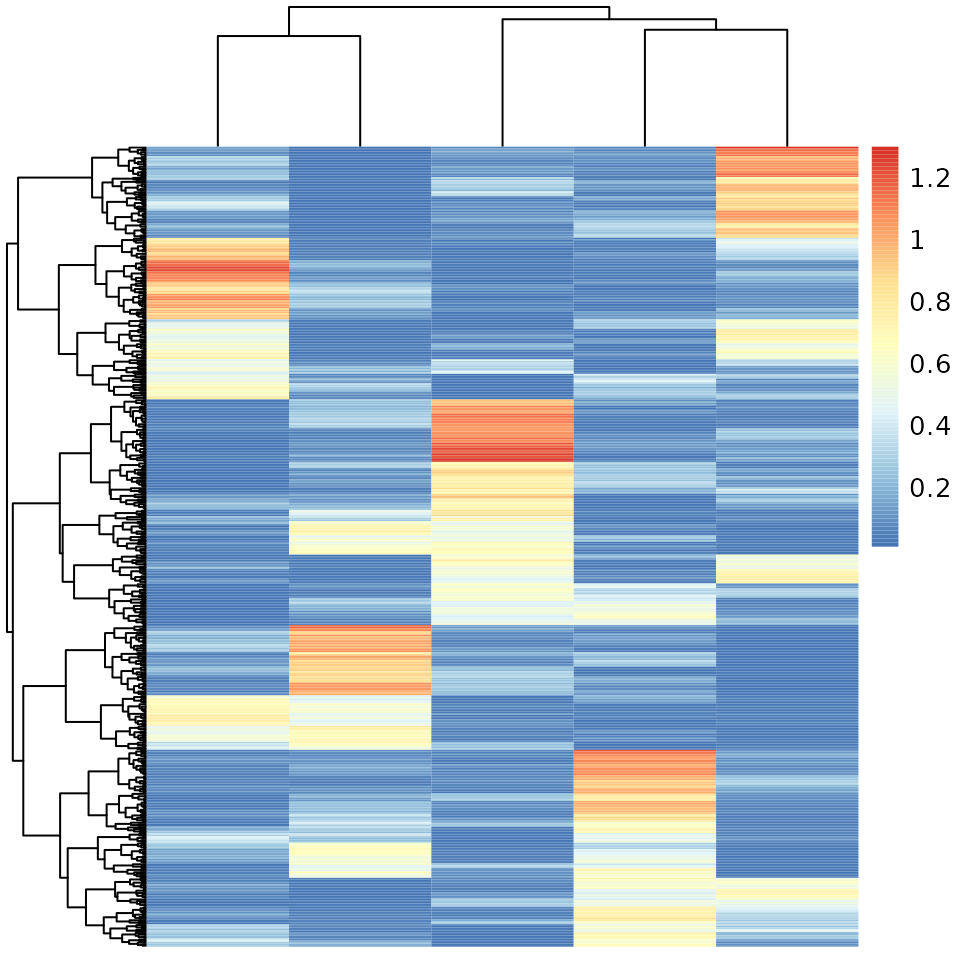
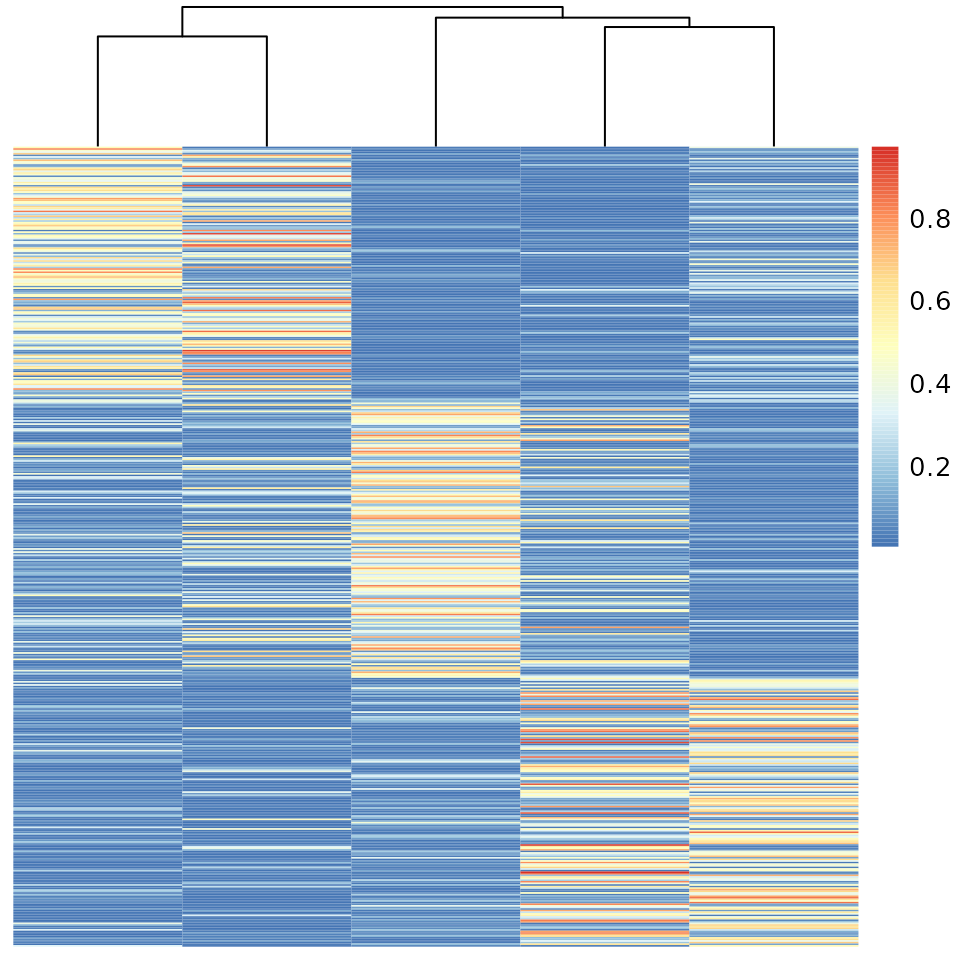
update visualization

diff --git a/docs/articles/note_multi_nmf.html b/docs/articles/note_multi_nmf.html
@@ -132,16 +132,16 @@
 <code class="sourceCode R"><span><span class="va">u0</span> <span class="op">&lt;-</span> <span class="fu"><a href="https://rdrr.io/r/base/cbind.html" class="external-link">cbind</a></span><span class="op">(</span><span class="fu"><a href="https://rdrr.io/r/base/Extremes.html" class="external-link">pmax</a></span><span class="op">(</span><span class="va">uu</span>, <span class="fl">0</span><span class="op">)</span>, <span class="op">-</span><span class="fu"><a href="https://rdrr.io/r/base/Extremes.html" class="external-link">pmin</a></span><span class="op">(</span><span class="va">uu</span>, <span class="fl">0</span><span class="op">)</span><span class="op">)</span></span>
 <span><span class="va">.out0</span> <span class="op">&lt;-</span> <span class="fu"><a href="../reference/asap_fit_nmf.html">asap_fit_nmf</a></span><span class="op">(</span><span class="fu"><a href="https://rdrr.io/r/base/cbind.html" class="external-link">cbind</a></span><span class="op">(</span><span class="va">y1</span>, <span class="va">y2</span>, <span class="va">y3</span>, <span class="va">u0</span><span class="op">)</span> <span class="op">*</span> <span class="fl">10</span>, maxK<span class="op">=</span><span class="fl">7</span><span class="op">)</span></span></code></pre></div>
 <div class="sourceCode" id="cb3"><pre class="downlit sourceCode r">
-<code class="sourceCode R"><span><span class="fu"><a href="https://rdrr.io/pkg/pheatmap/man/pheatmap.html" class="external-link">pheatmap</a></span><span class="op">(</span><span class="va">.out0</span><span class="op">$</span><span class="va">log.beta</span><span class="op">[</span><span class="va">gg</span>, <span class="op">]</span>, Rowv<span class="op">=</span><span class="cn">NA</span>, Colv<span class="op">=</span><span class="cn">NA</span>, scale <span class="op">=</span> <span class="st">"row"</span>, main <span class="op">=</span> <span class="st">"beta"</span><span class="op">)</span></span></code></pre></div>
+<code class="sourceCode R"><span><span class="fu"><a href="https://rdrr.io/pkg/pheatmap/man/pheatmap.html" class="external-link">pheatmap</a></span><span class="op">(</span><span class="va">.out0</span><span class="op">$</span><span class="va">log.beta</span><span class="op">[</span><span class="va">gg</span>, <span class="op">]</span>, Rowv<span class="op">=</span><span class="cn">NA</span>, Colv<span class="op">=</span><span class="cn">NA</span>, scale <span class="op">=</span> <span class="st">"row"</span>, main <span class="op">=</span> <span class="st">"beta"</span>, cluster_rows <span class="op">=</span> <span class="cn">F</span>, cluster_cols <span class="op">=</span> <span class="cn">F</span><span class="op">)</span></span></code></pre></div>
 <p><img src="note_multi_nmf_files/figure-html/unnamed-chunk-3-1.png" width="480"></p>
 <div class="sourceCode" id="cb4"><pre class="downlit sourceCode r">
-<code class="sourceCode R"><span><span class="fu"><a href="https://rdrr.io/pkg/pheatmap/man/pheatmap.html" class="external-link">pheatmap</a></span><span class="op">(</span><span class="va">.out0</span><span class="op">$</span><span class="va">theta</span><span class="op">[</span><span class="va">kk</span>, <span class="op">]</span>, Rowv<span class="op">=</span><span class="cn">NA</span>, Colv<span class="op">=</span><span class="cn">NA</span>, scale <span class="op">=</span> <span class="st">"row"</span>, main <span class="op">=</span> <span class="st">"theta1"</span><span class="op">)</span></span></code></pre></div>
+<code class="sourceCode R"><span><span class="fu"><a href="https://rdrr.io/pkg/pheatmap/man/pheatmap.html" class="external-link">pheatmap</a></span><span class="op">(</span><span class="va">.out0</span><span class="op">$</span><span class="va">theta</span><span class="op">[</span><span class="va">kk</span>, <span class="op">]</span>, Rowv<span class="op">=</span><span class="cn">NA</span>, Colv<span class="op">=</span><span class="cn">NA</span>, scale <span class="op">=</span> <span class="st">"row"</span>, main <span class="op">=</span> <span class="st">"theta1"</span>, cluster_rows <span class="op">=</span> <span class="cn">F</span>, cluster_cols <span class="op">=</span> <span class="cn">F</span><span class="op">)</span></span></code></pre></div>
 <p><img src="note_multi_nmf_files/figure-html/unnamed-chunk-4-1.png" width="480"></p>
 <div class="sourceCode" id="cb5"><pre class="downlit sourceCode r">
-<code class="sourceCode R"><span><span class="fu"><a href="https://rdrr.io/pkg/pheatmap/man/pheatmap.html" class="external-link">pheatmap</a></span><span class="op">(</span><span class="va">.out0</span><span class="op">$</span><span class="va">theta</span><span class="op">[</span><span class="va">kk</span> <span class="op">+</span> <span class="va">n</span>, <span class="op">]</span>, Rowv<span class="op">=</span><span class="cn">NA</span>, Colv<span class="op">=</span><span class="cn">NA</span>, scale <span class="op">=</span> <span class="st">"row"</span>, main <span class="op">=</span> <span class="st">"theta2"</span><span class="op">)</span></span></code></pre></div>
+<code class="sourceCode R"><span><span class="fu"><a href="https://rdrr.io/pkg/pheatmap/man/pheatmap.html" class="external-link">pheatmap</a></span><span class="op">(</span><span class="va">.out0</span><span class="op">$</span><span class="va">theta</span><span class="op">[</span><span class="va">kk</span> <span class="op">+</span> <span class="va">n</span>, <span class="op">]</span>, Rowv<span class="op">=</span><span class="cn">NA</span>, Colv<span class="op">=</span><span class="cn">NA</span>, scale <span class="op">=</span> <span class="st">"row"</span>, main <span class="op">=</span> <span class="st">"theta2"</span>, cluster_rows <span class="op">=</span> <span class="cn">F</span>, cluster_cols <span class="op">=</span> <span class="cn">F</span><span class="op">)</span></span></code></pre></div>
 <p><img src="note_multi_nmf_files/figure-html/unnamed-chunk-5-1.png" width="480"></p>
 <div class="sourceCode" id="cb6"><pre class="downlit sourceCode r">
-<code class="sourceCode R"><span><span class="fu"><a href="https://rdrr.io/pkg/pheatmap/man/pheatmap.html" class="external-link">pheatmap</a></span><span class="op">(</span><span class="va">.out0</span><span class="op">$</span><span class="va">theta</span><span class="op">[</span><span class="va">kk</span> <span class="op">+</span> <span class="fl">2</span><span class="op">*</span><span class="va">n</span>, <span class="op">]</span>, Rowv<span class="op">=</span><span class="cn">NA</span>, Colv<span class="op">=</span><span class="cn">NA</span>, scale <span class="op">=</span> <span class="st">"row"</span>, main <span class="op">=</span> <span class="st">"theta3"</span><span class="op">)</span></span></code></pre></div>
+<code class="sourceCode R"><span><span class="fu"><a href="https://rdrr.io/pkg/pheatmap/man/pheatmap.html" class="external-link">pheatmap</a></span><span class="op">(</span><span class="va">.out0</span><span class="op">$</span><span class="va">theta</span><span class="op">[</span><span class="va">kk</span> <span class="op">+</span> <span class="fl">2</span><span class="op">*</span><span class="va">n</span>, <span class="op">]</span>, Rowv<span class="op">=</span><span class="cn">NA</span>, Colv<span class="op">=</span><span class="cn">NA</span>, scale <span class="op">=</span> <span class="st">"row"</span>, main <span class="op">=</span> <span class="st">"theta3"</span>, cluster_rows <span class="op">=</span> <span class="cn">F</span>, cluster_cols <span class="op">=</span> <span class="cn">F</span><span class="op">)</span></span></code></pre></div>
 <p><img src="note_multi_nmf_files/figure-html/unnamed-chunk-6-1.png" width="480"></p>
 </div>
 <div class="section level3">
@@ -151,16 +151,16 @@
 <code class="sourceCode R"><span><span class="va">u0</span> <span class="op">&lt;-</span> <span class="fu"><a href="https://rdrr.io/r/base/cbind.html" class="external-link">cbind</a></span><span class="op">(</span><span class="fu"><a href="https://rdrr.io/r/base/Extremes.html" class="external-link">pmax</a></span><span class="op">(</span><span class="va">uu</span>, <span class="fl">0</span><span class="op">)</span>, <span class="op">-</span><span class="fu"><a href="https://rdrr.io/r/base/Extremes.html" class="external-link">pmin</a></span><span class="op">(</span><span class="va">uu</span>, <span class="fl">0</span><span class="op">)</span><span class="op">)</span></span>
 <span><span class="va">.out</span> <span class="op">&lt;-</span>  <span class="fu"><a href="../reference/asap_fit_nmf_cbind.html">asap_fit_nmf_cbind</a></span><span class="op">(</span><span class="fu"><a href="https://rdrr.io/r/base/list.html" class="external-link">list</a></span><span class="op">(</span><span class="va">y1</span>, <span class="va">y2</span>, <span class="va">y3</span>, <span class="va">u0</span><span class="op">)</span>, a0 <span class="op">=</span> <span class="fl">1e-2</span>, b0 <span class="op">=</span> <span class="fl">1</span>, maxK<span class="op">=</span><span class="fl">7</span><span class="op">)</span></span></code></pre></div>
 <div class="sourceCode" id="cb8"><pre class="downlit sourceCode r">
-<code class="sourceCode R"><span><span class="fu"><a href="https://rdrr.io/pkg/pheatmap/man/pheatmap.html" class="external-link">pheatmap</a></span><span class="op">(</span><span class="va">.out</span><span class="op">$</span><span class="va">beta</span><span class="op">[</span><span class="va">gg</span>,<span class="op">]</span>, Rowv<span class="op">=</span><span class="cn">NA</span>, Colv<span class="op">=</span><span class="cn">NA</span>, scale <span class="op">=</span> <span class="st">"row"</span>, main <span class="op">=</span> <span class="st">"beta"</span><span class="op">)</span></span></code></pre></div>
+<code class="sourceCode R"><span><span class="fu"><a href="https://rdrr.io/pkg/pheatmap/man/pheatmap.html" class="external-link">pheatmap</a></span><span class="op">(</span><span class="va">.out</span><span class="op">$</span><span class="va">beta</span><span class="op">[</span><span class="va">gg</span>,<span class="op">]</span>, Rowv<span class="op">=</span><span class="cn">NA</span>, Colv<span class="op">=</span><span class="cn">NA</span>, scale <span class="op">=</span> <span class="st">"row"</span>, main <span class="op">=</span> <span class="st">"beta"</span>, cluster_rows <span class="op">=</span> <span class="cn">F</span>, cluster_cols <span class="op">=</span> <span class="cn">F</span><span class="op">)</span></span></code></pre></div>
 <p><img src="note_multi_nmf_files/figure-html/unnamed-chunk-8-1.png" width="480"></p>
 <div class="sourceCode" id="cb9"><pre class="downlit sourceCode r">
-<code class="sourceCode R"><span><span class="fu"><a href="https://rdrr.io/pkg/pheatmap/man/pheatmap.html" class="external-link">pheatmap</a></span><span class="op">(</span><span class="va">.out</span><span class="op">$</span><span class="va">theta.list</span><span class="op">[[</span><span class="fl">1</span><span class="op">]</span><span class="op">]</span><span class="op">[</span><span class="va">kk</span>,<span class="op">]</span>, Rowv<span class="op">=</span><span class="cn">NA</span>, Colv<span class="op">=</span><span class="cn">NA</span>, scale <span class="op">=</span> <span class="st">"row"</span>, main <span class="op">=</span> <span class="st">"theta1 (1 + 2)"</span><span class="op">)</span></span></code></pre></div>
+<code class="sourceCode R"><span><span class="fu"><a href="https://rdrr.io/pkg/pheatmap/man/pheatmap.html" class="external-link">pheatmap</a></span><span class="op">(</span><span class="va">.out</span><span class="op">$</span><span class="va">theta.list</span><span class="op">[[</span><span class="fl">1</span><span class="op">]</span><span class="op">]</span><span class="op">[</span><span class="va">kk</span>,<span class="op">]</span>, Rowv<span class="op">=</span><span class="cn">NA</span>, Colv<span class="op">=</span><span class="cn">NA</span>, scale <span class="op">=</span> <span class="st">"row"</span>, main <span class="op">=</span> <span class="st">"theta1 (1 + 2)"</span>, cluster_rows <span class="op">=</span> <span class="cn">F</span>, cluster_cols <span class="op">=</span> <span class="cn">F</span><span class="op">)</span></span></code></pre></div>
 <p><img src="note_multi_nmf_files/figure-html/unnamed-chunk-9-1.png" width="480"></p>
 <div class="sourceCode" id="cb10"><pre class="downlit sourceCode r">
-<code class="sourceCode R"><span><span class="fu"><a href="https://rdrr.io/pkg/pheatmap/man/pheatmap.html" class="external-link">pheatmap</a></span><span class="op">(</span><span class="va">.out</span><span class="op">$</span><span class="va">theta.list</span><span class="op">[[</span><span class="fl">2</span><span class="op">]</span><span class="op">]</span><span class="op">[</span><span class="va">kk</span>,<span class="op">]</span>, Rowv<span class="op">=</span><span class="cn">NA</span>, Colv<span class="op">=</span><span class="cn">NA</span>, scale <span class="op">=</span> <span class="st">"row"</span>, main <span class="op">=</span> <span class="st">"theta2 (3 + 4)"</span><span class="op">)</span></span></code></pre></div>
+<code class="sourceCode R"><span><span class="fu"><a href="https://rdrr.io/pkg/pheatmap/man/pheatmap.html" class="external-link">pheatmap</a></span><span class="op">(</span><span class="va">.out</span><span class="op">$</span><span class="va">theta.list</span><span class="op">[[</span><span class="fl">2</span><span class="op">]</span><span class="op">]</span><span class="op">[</span><span class="va">kk</span>,<span class="op">]</span>, Rowv<span class="op">=</span><span class="cn">NA</span>, Colv<span class="op">=</span><span class="cn">NA</span>, scale <span class="op">=</span> <span class="st">"row"</span>, main <span class="op">=</span> <span class="st">"theta2 (3 + 4)"</span>, cluster_rows <span class="op">=</span> <span class="cn">F</span>, cluster_cols <span class="op">=</span> <span class="cn">F</span><span class="op">)</span></span></code></pre></div>
 <p><img src="note_multi_nmf_files/figure-html/unnamed-chunk-10-1.png" width="480"></p>
 <div class="sourceCode" id="cb11"><pre class="downlit sourceCode r">
-<code class="sourceCode R"><span><span class="fu"><a href="https://rdrr.io/pkg/pheatmap/man/pheatmap.html" class="external-link">pheatmap</a></span><span class="op">(</span><span class="va">.out</span><span class="op">$</span><span class="va">theta.list</span><span class="op">[[</span><span class="fl">3</span><span class="op">]</span><span class="op">]</span><span class="op">[</span><span class="va">kk</span>,<span class="op">]</span>, Rowv<span class="op">=</span><span class="cn">NA</span>, Colv<span class="op">=</span><span class="cn">NA</span>, scale <span class="op">=</span> <span class="st">"row"</span>, main <span class="op">=</span> <span class="st">"theta3 (4 + 5)"</span><span class="op">)</span></span></code></pre></div>
+<code class="sourceCode R"><span><span class="fu"><a href="https://rdrr.io/pkg/pheatmap/man/pheatmap.html" class="external-link">pheatmap</a></span><span class="op">(</span><span class="va">.out</span><span class="op">$</span><span class="va">theta.list</span><span class="op">[[</span><span class="fl">3</span><span class="op">]</span><span class="op">]</span><span class="op">[</span><span class="va">kk</span>,<span class="op">]</span>, Rowv<span class="op">=</span><span class="cn">NA</span>, Colv<span class="op">=</span><span class="cn">NA</span>, scale <span class="op">=</span> <span class="st">"row"</span>, main <span class="op">=</span> <span class="st">"theta3 (4 + 5)"</span>, cluster_rows <span class="op">=</span> <span class="cn">F</span>, cluster_cols <span class="op">=</span> <span class="cn">F</span><span class="op">)</span></span></code></pre></div>
 <p><img src="note_multi_nmf_files/figure-html/unnamed-chunk-11-1.png" width="480"></p>
 </div>
   </div>

diff --git a/docs/articles/note_batch_correction.html b/docs/articles/note_batch_correction.html
@@ -368,30 +368,30 @@
 <span><span class="va">.nmf1</span> <span class="op">&lt;-</span> <span class="fu">asapR</span><span class="fu">::</span><span class="fu"><a href="../reference/asap_fit_nmf.html">asap_fit_nmf</a></span><span class="op">(</span><span class="va">yy</span><span class="op">/</span><span class="va">.delta.db</span><span class="op">[</span>,<span class="va">batch</span><span class="op">]</span>, maxK<span class="op">=</span><span class="fl">5</span>, svd_init <span class="op">=</span> <span class="cn">T</span><span class="op">)</span></span></code></pre></div>
 <p>Without any batch correction:</p>
 <div class="sourceCode" id="cb17"><pre class="downlit sourceCode r">
-<code class="sourceCode R"><span><span class="fu"><a href="https://rdrr.io/pkg/pheatmap/man/pheatmap.html" class="external-link">pheatmap</a></span><span class="op">(</span><span class="va">.nmf0</span><span class="op">$</span><span class="va">theta</span><span class="op">[</span><span class="fu"><a href="https://rdrr.io/r/base/order.html" class="external-link">order</a></span><span class="op">(</span><span class="va">kk</span><span class="op">)</span>, <span class="op">]</span>, Rowv<span class="op">=</span><span class="cn">NA</span>, Colv<span class="op">=</span><span class="cn">NA</span>, scales<span class="op">=</span><span class="st">"row"</span><span class="op">)</span></span></code></pre></div>
+<code class="sourceCode R"><span><span class="fu"><a href="https://rdrr.io/pkg/pheatmap/man/pheatmap.html" class="external-link">pheatmap</a></span><span class="op">(</span><span class="va">.nmf0</span><span class="op">$</span><span class="va">theta</span><span class="op">[</span><span class="fu"><a href="https://rdrr.io/r/base/order.html" class="external-link">order</a></span><span class="op">(</span><span class="va">kk</span><span class="op">)</span>, <span class="op">]</span>, Rowv<span class="op">=</span><span class="cn">NA</span>, Colv<span class="op">=</span><span class="cn">NA</span>, scales<span class="op">=</span><span class="st">"row"</span>, cluster_rows <span class="op">=</span> <span class="cn">F</span><span class="op">)</span></span></code></pre></div>
 <p><img src="note_batch_correction_files/figure-html/unnamed-chunk-12-1.png" width="480"></p>
 <div class="sourceCode" id="cb18"><pre class="downlit sourceCode r">
 <code class="sourceCode R"><span><span class="fu"><a href="https://rdrr.io/r/base/table.html" class="external-link">table</a></span><span class="op">(</span><span class="va">kk</span>, <span class="fu"><a href="https://rdrr.io/r/base/apply.html" class="external-link">apply</a></span><span class="op">(</span><span class="va">.nmf0</span><span class="op">$</span><span class="va">theta</span>, <span class="fl">1</span>, <span class="va">which.max</span><span class="op">)</span><span class="op">)</span></span></code></pre></div>
 <pre><code><span><span class="co">##    </span></span>
 <span><span class="co">## kk    1   2   3   4   5</span></span>
-<span><span class="co">##   1  28   0  78   6 109</span></span>
-<span><span class="co">##   2  26  64  65  17  20</span></span>
-<span><span class="co">##   3  14  18  76  66   6</span></span>
-<span><span class="co">##   4  62   4  29  68  19</span></span>
-<span><span class="co">##   5   0 111 104   1   9</span></span></code></pre>
+<span><span class="co">##   1  41  12  21  44 103</span></span>
+<span><span class="co">##   2  27 100  60   4   1</span></span>
+<span><span class="co">##   3   1  58  18  71  32</span></span>
+<span><span class="co">##   4   5  76   5  81  15</span></span>
+<span><span class="co">##   5   0  92  85  19  29</span></span></code></pre>
 <p>With batch correction:</p>
 <div class="sourceCode" id="cb20"><pre class="downlit sourceCode r">
-<code class="sourceCode R"><span><span class="fu"><a href="https://rdrr.io/pkg/pheatmap/man/pheatmap.html" class="external-link">pheatmap</a></span><span class="op">(</span><span class="va">.nmf1</span><span class="op">$</span><span class="va">theta</span><span class="op">[</span><span class="fu"><a href="https://rdrr.io/r/base/order.html" class="external-link">order</a></span><span class="op">(</span><span class="va">kk</span><span class="op">)</span>, <span class="op">]</span>, Rowv<span class="op">=</span><span class="cn">NA</span>, Colv<span class="op">=</span><span class="cn">NA</span>, scales<span class="op">=</span><span class="st">"row"</span><span class="op">)</span></span></code></pre></div>
+<code class="sourceCode R"><span><span class="fu"><a href="https://rdrr.io/pkg/pheatmap/man/pheatmap.html" class="external-link">pheatmap</a></span><span class="op">(</span><span class="va">.nmf1</span><span class="op">$</span><span class="va">theta</span><span class="op">[</span><span class="fu"><a href="https://rdrr.io/r/base/order.html" class="external-link">order</a></span><span class="op">(</span><span class="va">kk</span><span class="op">)</span>, <span class="op">]</span>, Rowv<span class="op">=</span><span class="cn">NA</span>, Colv<span class="op">=</span><span class="cn">NA</span>, scales<span class="op">=</span><span class="st">"row"</span>, cluster_rows <span class="op">=</span> <span class="cn">F</span><span class="op">)</span></span></code></pre></div>
 <p><img src="note_batch_correction_files/figure-html/unnamed-chunk-14-1.png" width="480"></p>
 <div class="sourceCode" id="cb21"><pre class="downlit sourceCode r">
 <code class="sourceCode R"><span><span class="fu"><a href="https://rdrr.io/r/base/table.html" class="external-link">table</a></span><span class="op">(</span><span class="va">kk</span>, <span class="fu"><a href="https://rdrr.io/r/base/apply.html" class="external-link">apply</a></span><span class="op">(</span><span class="va">.nmf1</span><span class="op">$</span><span class="va">theta</span>, <span class="fl">1</span>, <span class="va">which.max</span><span class="op">)</span><span class="op">)</span></span></code></pre></div>
 <pre><code><span><span class="co">##    </span></span>
 <span><span class="co">## kk    1   2   3   4   5</span></span>
-<span><span class="co">##   1   8   3   8   7 195</span></span>
-<span><span class="co">##   2   3   4   3 178   4</span></span>
-<span><span class="co">##   3 162   6   6   0   6</span></span>
-<span><span class="co">##   4   3   2 164  10   3</span></span>
-<span><span class="co">##   5   2 205   8   6   4</span></span></code></pre>
+<span><span class="co">##   1   5   3  19  21 173</span></span>
+<span><span class="co">##   2 137   8   0  36  11</span></span>
+<span><span class="co">##   3   8  29  93   4  46</span></span>
+<span><span class="co">##   4   4   1  51 126   0</span></span>
+<span><span class="co">##   5   3 204   7   8   3</span></span></code></pre>
 </div>
   </div>
 

diff --git a/docs/articles/introduction.html b/docs/articles/introduction.html
@@ -201,10 +201,10 @@
 <code class="sourceCode R"><span><span class="va">.pmf</span> <span class="op">&lt;-</span> <span class="fu"><a href="../reference/asap_topic_pmf.html">asap_topic_pmf</a></span><span class="op">(</span><span class="va">.nmf</span><span class="op">$</span><span class="va">beta</span>, <span class="va">R</span>, <span class="va">.stat</span><span class="op">$</span><span class="va">colsum</span>, max_iter <span class="op">=</span> <span class="fl">10</span><span class="op">)</span></span>
 <span><span class="va">.topic</span> <span class="op">&lt;-</span> <span class="fu"><a href="../reference/pmf2topic.html">pmf2topic</a></span><span class="op">(</span><span class="va">.pmf</span><span class="op">$</span><span class="va">beta</span>, <span class="va">.pmf</span><span class="op">$</span><span class="va">theta</span><span class="op">)</span></span></code></pre></div>
 <div class="sourceCode" id="cb17"><pre class="downlit sourceCode r">
-<code class="sourceCode R"><span><span class="fu"><a href="https://rdrr.io/pkg/pheatmap/man/pheatmap.html" class="external-link">pheatmap</a></span><span class="op">(</span><span class="fu"><a href="https://rdrr.io/r/base/t.html" class="external-link">t</a></span><span class="op">(</span><span class="va">.topic</span><span class="op">$</span><span class="va">prop</span><span class="op">[</span><span class="fu"><a href="https://rdrr.io/r/base/order.html" class="external-link">order</a></span><span class="op">(</span><span class="va">kk</span><span class="op">)</span>,<span class="op">]</span><span class="op">)</span>, Rowv<span class="op">=</span><span class="cn">NA</span>, Colv<span class="op">=</span><span class="cn">NA</span><span class="op">)</span></span></code></pre></div>
+<code class="sourceCode R"><span><span class="fu"><a href="https://rdrr.io/pkg/pheatmap/man/pheatmap.html" class="external-link">pheatmap</a></span><span class="op">(</span><span class="fu"><a href="https://rdrr.io/r/base/t.html" class="external-link">t</a></span><span class="op">(</span><span class="va">.topic</span><span class="op">$</span><span class="va">prop</span><span class="op">[</span><span class="fu"><a href="https://rdrr.io/r/base/order.html" class="external-link">order</a></span><span class="op">(</span><span class="va">kk</span><span class="op">)</span>,<span class="op">]</span><span class="op">)</span>, Rowv<span class="op">=</span><span class="cn">NA</span>, Colv<span class="op">=</span><span class="cn">NA</span>, cluster_cols <span class="op">=</span> <span class="cn">F</span><span class="op">)</span></span></code></pre></div>
 <p><img src="introduction_files/figure-html/fig_topic_heatmap-1.png" width="768"></p>
 <div class="sourceCode" id="cb18"><pre class="downlit sourceCode r">
-<code class="sourceCode R"><span><span class="fu"><a href="https://rdrr.io/pkg/pheatmap/man/pheatmap.html" class="external-link">pheatmap</a></span><span class="op">(</span><span class="fu"><a href="https://rdrr.io/r/base/t.html" class="external-link">t</a></span><span class="op">(</span><span class="va">vv</span><span class="op">[</span><span class="fu"><a href="https://rdrr.io/r/base/order.html" class="external-link">order</a></span><span class="op">(</span><span class="va">kk</span><span class="op">)</span>,<span class="op">]</span><span class="op">)</span>, Rowv<span class="op">=</span><span class="cn">NA</span>, Colv<span class="op">=</span><span class="cn">NA</span><span class="op">)</span></span></code></pre></div>
+<code class="sourceCode R"><span><span class="fu"><a href="https://rdrr.io/pkg/pheatmap/man/pheatmap.html" class="external-link">pheatmap</a></span><span class="op">(</span><span class="fu"><a href="https://rdrr.io/r/base/t.html" class="external-link">t</a></span><span class="op">(</span><span class="va">vv</span><span class="op">[</span><span class="fu"><a href="https://rdrr.io/r/base/order.html" class="external-link">order</a></span><span class="op">(</span><span class="va">kk</span><span class="op">)</span>,<span class="op">]</span><span class="op">)</span>, Rowv<span class="op">=</span><span class="cn">NA</span>, Colv<span class="op">=</span><span class="cn">NA</span>, cluster_cols <span class="op">=</span> <span class="cn">F</span><span class="op">)</span></span></code></pre></div>
 <p><img src="introduction_files/figure-html/fig_true_topic_heatmap-1.png" width="768"></p>
 <div class="sourceCode" id="cb19"><pre class="downlit sourceCode r">
 <code class="sourceCode R"><span><span class="fu">plot.struct</span><span class="op">(</span><span class="va">.topic</span><span class="op">$</span><span class="va">prop</span><span class="op">)</span> <span class="op">+</span></span>

diff --git a/docs/articles/note_faster_nmf_approximation.html b/docs/articles/note_faster_nmf_approximation.html
@@ -171,7 +171,7 @@ b_{0} + \sum_{j} \mathbb{E}\!\left[\theta_{jk}\right]
 <p><img src="note_faster_nmf_approximation_files/figure-html/unnamed-chunk-2-1.png" width="480"></p>
 <div class="sourceCode" id="cb3"><pre class="downlit sourceCode r">
 <code class="sourceCode R"><span><span class="va">v.order</span> <span class="op">&lt;-</span> <span class="fu"><a href="https://rdrr.io/r/base/order.html" class="external-link">order</a></span><span class="op">(</span><span class="fu"><a href="https://rdrr.io/r/base/apply.html" class="external-link">apply</a></span><span class="op">(</span><span class="va">vv</span>, <span class="fl">1</span>, <span class="va">which.max</span><span class="op">)</span><span class="op">)</span></span>
-<span><span class="fu"><a href="https://rdrr.io/pkg/pheatmap/man/pheatmap.html" class="external-link">pheatmap</a></span><span class="op">(</span><span class="va">out</span><span class="op">$</span><span class="va">theta</span><span class="op">[</span><span class="va">v.order</span>, <span class="op">]</span>, Rowv<span class="op">=</span><span class="cn">NA</span>, Colv<span class="op">=</span><span class="cn">NA</span>, scales<span class="op">=</span><span class="st">"row"</span><span class="op">)</span></span></code></pre></div>
+<span><span class="fu"><a href="https://rdrr.io/pkg/pheatmap/man/pheatmap.html" class="external-link">pheatmap</a></span><span class="op">(</span><span class="va">out</span><span class="op">$</span><span class="va">theta</span><span class="op">[</span><span class="va">v.order</span>, <span class="op">]</span>, Rowv<span class="op">=</span><span class="cn">NA</span>, Colv<span class="op">=</span><span class="cn">NA</span>, scales<span class="op">=</span><span class="st">"row"</span>, cluster_rows <span class="op">=</span> <span class="cn">F</span><span class="op">)</span></span></code></pre></div>
 <p><img src="note_faster_nmf_approximation_files/figure-html/unnamed-chunk-3-1.png" width="480"></p>
 </div>
   </div>
